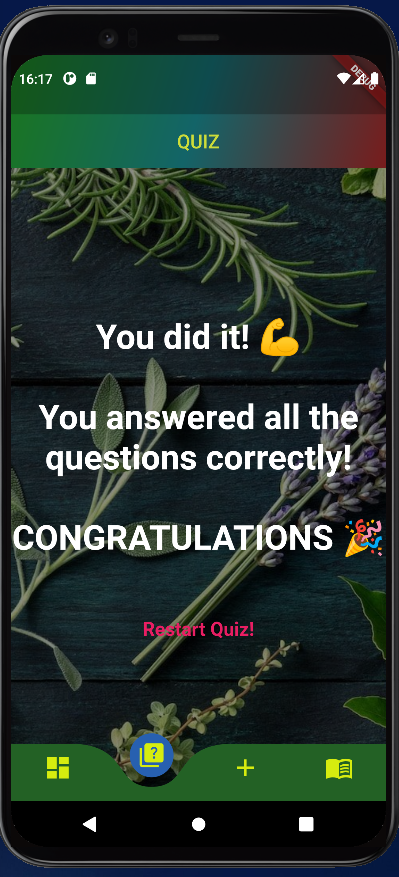
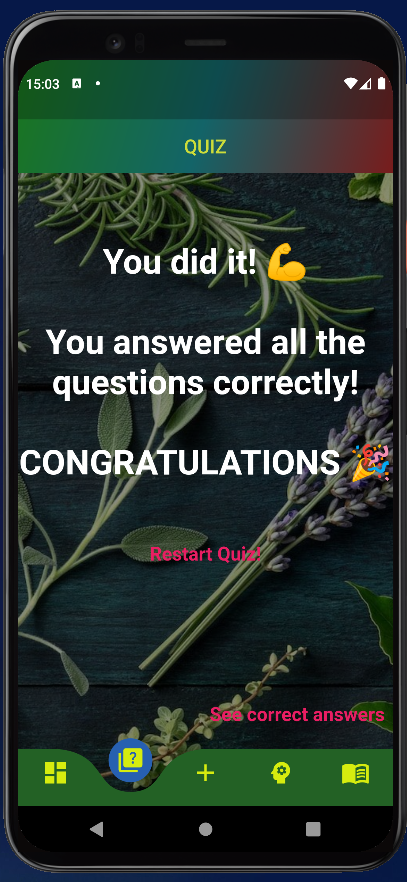
Add new screenshots

diff --git a/lib/features/herbal_trivia_page/herbal_trivia_page.dart b/lib/features/herbal_trivia_page/herbal_trivia_page.dart
@@ -42,8 +42,30 @@ class HerbalTriviaPage extends StatelessWidget {
                   ),
                   child: ListView(
                     children: [
+                      Container(
+                        color: const Color.fromARGB(166, 158, 158, 158),
+                        child: const Text(
+                          'Herbs are rich in history and usage. I thought that it would be fun to share some of these unique facts with you in the form of a little herbal trivia. I guarantee that everyone will learn a little something.  Have fun, and I wish you the best of luck! 🙂',
+                          style: TextStyle(
+                            color: Color.fromARGB(2255, 214, 236, 15),
+                            fontSize: 20,
+                          ),
+                          textAlign: TextAlign.center,
+                        ),
+                      ),
                       for (final trivia in state.results)
                         _HerbalTriviaItemWidget(model: trivia),
+                      const SizedBox(height: 10),
+                      const Text(
+                        'I hope that you enjoyed my herbal trivia  🙂',
+                        style: TextStyle(
+                          fontSize: 20,
+                          fontWeight: FontWeight.bold,
+                          color: Color.fromARGB(2255, 214, 236, 15),
+                        ),
+                        textAlign: TextAlign.center,
+                      ),
+                      const SizedBox(height: 10),
                     ],
                   ),
                 );
@@ -97,17 +119,24 @@ class _HerbalTriviaItemWidget extends StatelessWidget {
               style: const TextStyle(
                 color: Color.fromARGB(255, 255, 255, 255),
                 fontSize: 20,
+                fontWeight: FontWeight.bold,
               ),
               textAlign: TextAlign.center,
             ),
             const SizedBox(
               height: 40,
             ),
-            Text(
-              model.answer,
-              style: const TextStyle(
-                fontSize: 15,
-              ),
+            Row(
+              children: [
+                Expanded(
+                  child: Text(
+                    model.answer,
+                    style: const TextStyle(
+                      fontSize: 12,
+                    ),
+                  ),
+                ),
+              ],
             ),
           ],
         ),
